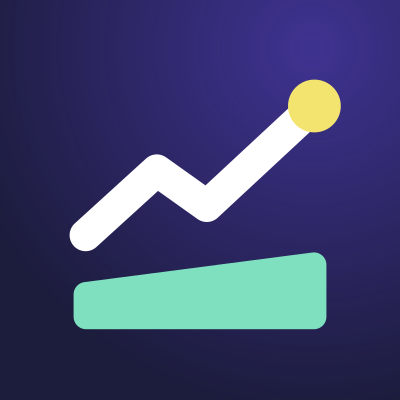
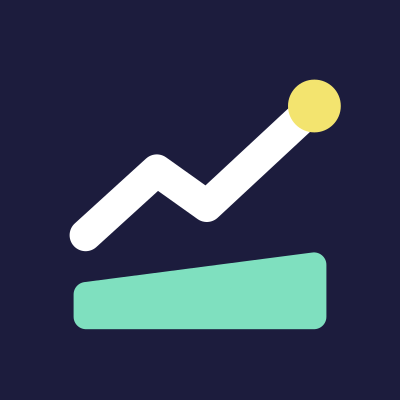
docs: flat indigo tile for the Pastel mark, matching the midnight header

diff --git a/docs/brand/social/pastel/gen.py b/docs/brand/social/pastel/gen.py
@@ -59,21 +59,13 @@ MARK_FLOOR = "M14 50.5h36v-8l-36 4.5z"
 MARK_LINE = "M13.7 37.7L25.1 27.4l8 5.7L50.3 17.1"
 
 
-TILE = "#1c1c3d"  # the mark's tile: lighter than midnight, lifted by a violet glow
-_mark_n = [0]
+TILE = "#1c1c3d"  # the mark's tile: a lighter indigo than the midnight ground
 
 
 def mark(x, y, size, bg=TILE, floor=MINT_DARK, line="#ffffff", dot=BUTTER, rx=18):
     s = size / 64
-    _mark_n[0] += 1
-    gid = f"mg{_mark_n[0]}"
     dot_svg = f'<circle cx="50.3" cy="17.1" r="4.2" fill="{dot}"/>' if dot else ""
-    bg_svg = (
-        f'<radialGradient id="{gid}" cx="0.78" cy="0.12" r="0.9"><stop offset="0" stop-color="#5b45d6" stop-opacity="0.55"/>'
-        f'<stop offset="1" stop-color="#5b45d6" stop-opacity="0"/></radialGradient>'
-        f'<rect width="64" height="64" rx="{rx}" fill="{bg}"/><rect width="64" height="64" rx="{rx}" fill="url(#{gid})"/>'
-        if bg else ""
-    )
+    bg_svg = f'<rect width="64" height="64" rx="{rx}" fill="{bg}"/>' if bg else ""
     return (
         f'<g transform="translate({x} {y}) scale({s:.5f})">{bg_svg}'
         f'<path d="{MARK_FLOOR}" fill="{floor}" stroke="{floor}" stroke-width="4" stroke-linejoin="round"/>'
@@ -118,13 +110,9 @@ def avatar(bg_svg, floor, line, dot, defs=""):
     return svg(1000, 1000, body, defs)
 
 
-AV_GLOW = (
-    '<radialGradient id="avg" cx="0.78" cy="0.12" r="0.9"><stop offset="0" stop-color="#5b45d6" stop-opacity="0.55"/>'
-    '<stop offset="1" stop-color="#5b45d6" stop-opacity="0"/></radialGradient>'
-)
 write(
     "avatar-pastel-midnight.svg",
-    avatar(f'<rect width="1000" height="1000" fill="{TILE}"/><rect width="1000" height="1000" fill="url(#avg)"/>', MINT_DARK, "#ffffff", BUTTER, AV_GLOW),
+    avatar(f'<rect width="1000" height="1000" fill="{TILE}"/>', MINT_DARK, "#ffffff", BUTTER),
 )
 write(
     "avatar-pastel-wash.svg",

diff --git a/docs/brand/README.md b/docs/brand/README.md
@@ -73,7 +73,7 @@ the end of the price line on midnight grounds.
 
 | File | Size | Use |
 |---|---|---|
-| `avatar-pastel-midnight.png` | 400×400 | Profile picture: indigo `#1c1c3d` with a violet glow, mint floor, butter dot |
+| `avatar-pastel-midnight.png` | 400×400 | Profile picture: indigo `#1c1c3d` (the mark tile of the midnight header), mint floor, butter dot |
 | `avatar-pastel-wash.png` | 400×400 | Profile picture on the pastel wash |
 | `avatar-pastel-butter.png` | 400×400 | Profile picture on butter, the loudest of the three |
 | `header-pastel-wordmark.png` | 1500×500 | Header: mark, wordmark and tagline over the price-and-floor line, on the wash |
